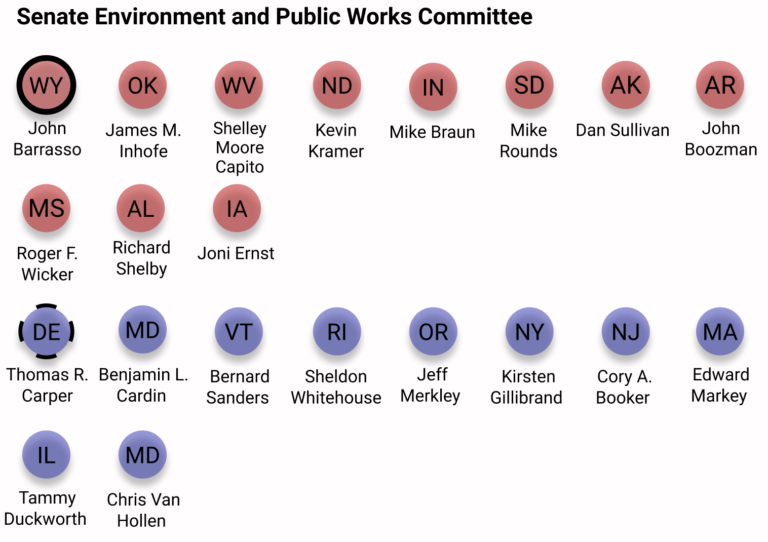
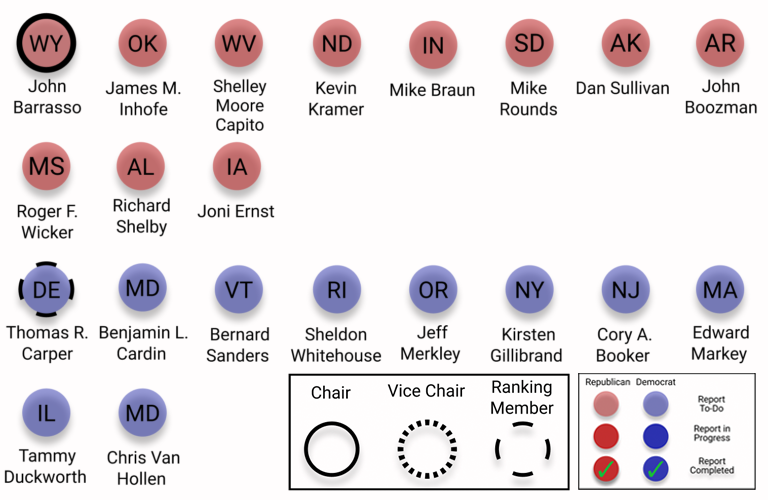
Combine environment and public works graphic key into main image

diff --git a/content/reports/reports-content.md b/content/reports/reports-content.md
@@ -13,7 +13,7 @@ The [Senate Environment and Public Works Committee](https://www.epw.senate.gov/p
 
 EEW Report Cards analyze and present data on violations of environmental laws, inspections of polluting facilities, and enforcement actions by the EPA for the congressional districts of each Representative on the House Energy and Commerce Committee, as well as the State of each Senator on the Environment and Public Works Committee. Our goal is to shed light on the chronic and routine violations of environmental laws and the failure to enforce environmental laws. <b>To participate, sign up [here](https://docs.google.com/forms/d/e/1FAIpQLSecS_MMcDyMlF_BMECQeOvCGPBtAa5lGIM5chDL_7iXfPH-NA/viewform?usp=sf_link) or at the bottom of this page!</b>
 
-##How are we making the EEW Report Cards?
+## How are we making the EEW Report Cards?
 
 These report cards will be compiled through public online workshops where we gather and analyze data from the EPA’s [Enforcement and Compliance History Online (ECHO)](https://echo.epa.gov/) for each State or Congressional District.
 
@@ -25,11 +25,6 @@ Participants can sign up for one of the assigned report cards below, or they can
 
 ![](./senate-env-pw.png)
 
-Key:
-![](./key-outlines.png)
-![](./key-progress.png)
-
-
 ## House Energy & Commerce Committee:
 
 ![](house-energy-commerce.png)
@@ -37,7 +32,3 @@ Key:
 Key:
 ![](./key-outlines.png)
 ![](./key-progress.png)
-
-<big>Want to participate? Sign up here:</big>
-
-<iframe src="https://docs.google.com/forms/d/e/1FAIpQLSecS_MMcDyMlF_BMECQeOvCGPBtAa5lGIM5chDL_7iXfPH-NA/viewform" width = 100% height=1600px/>
